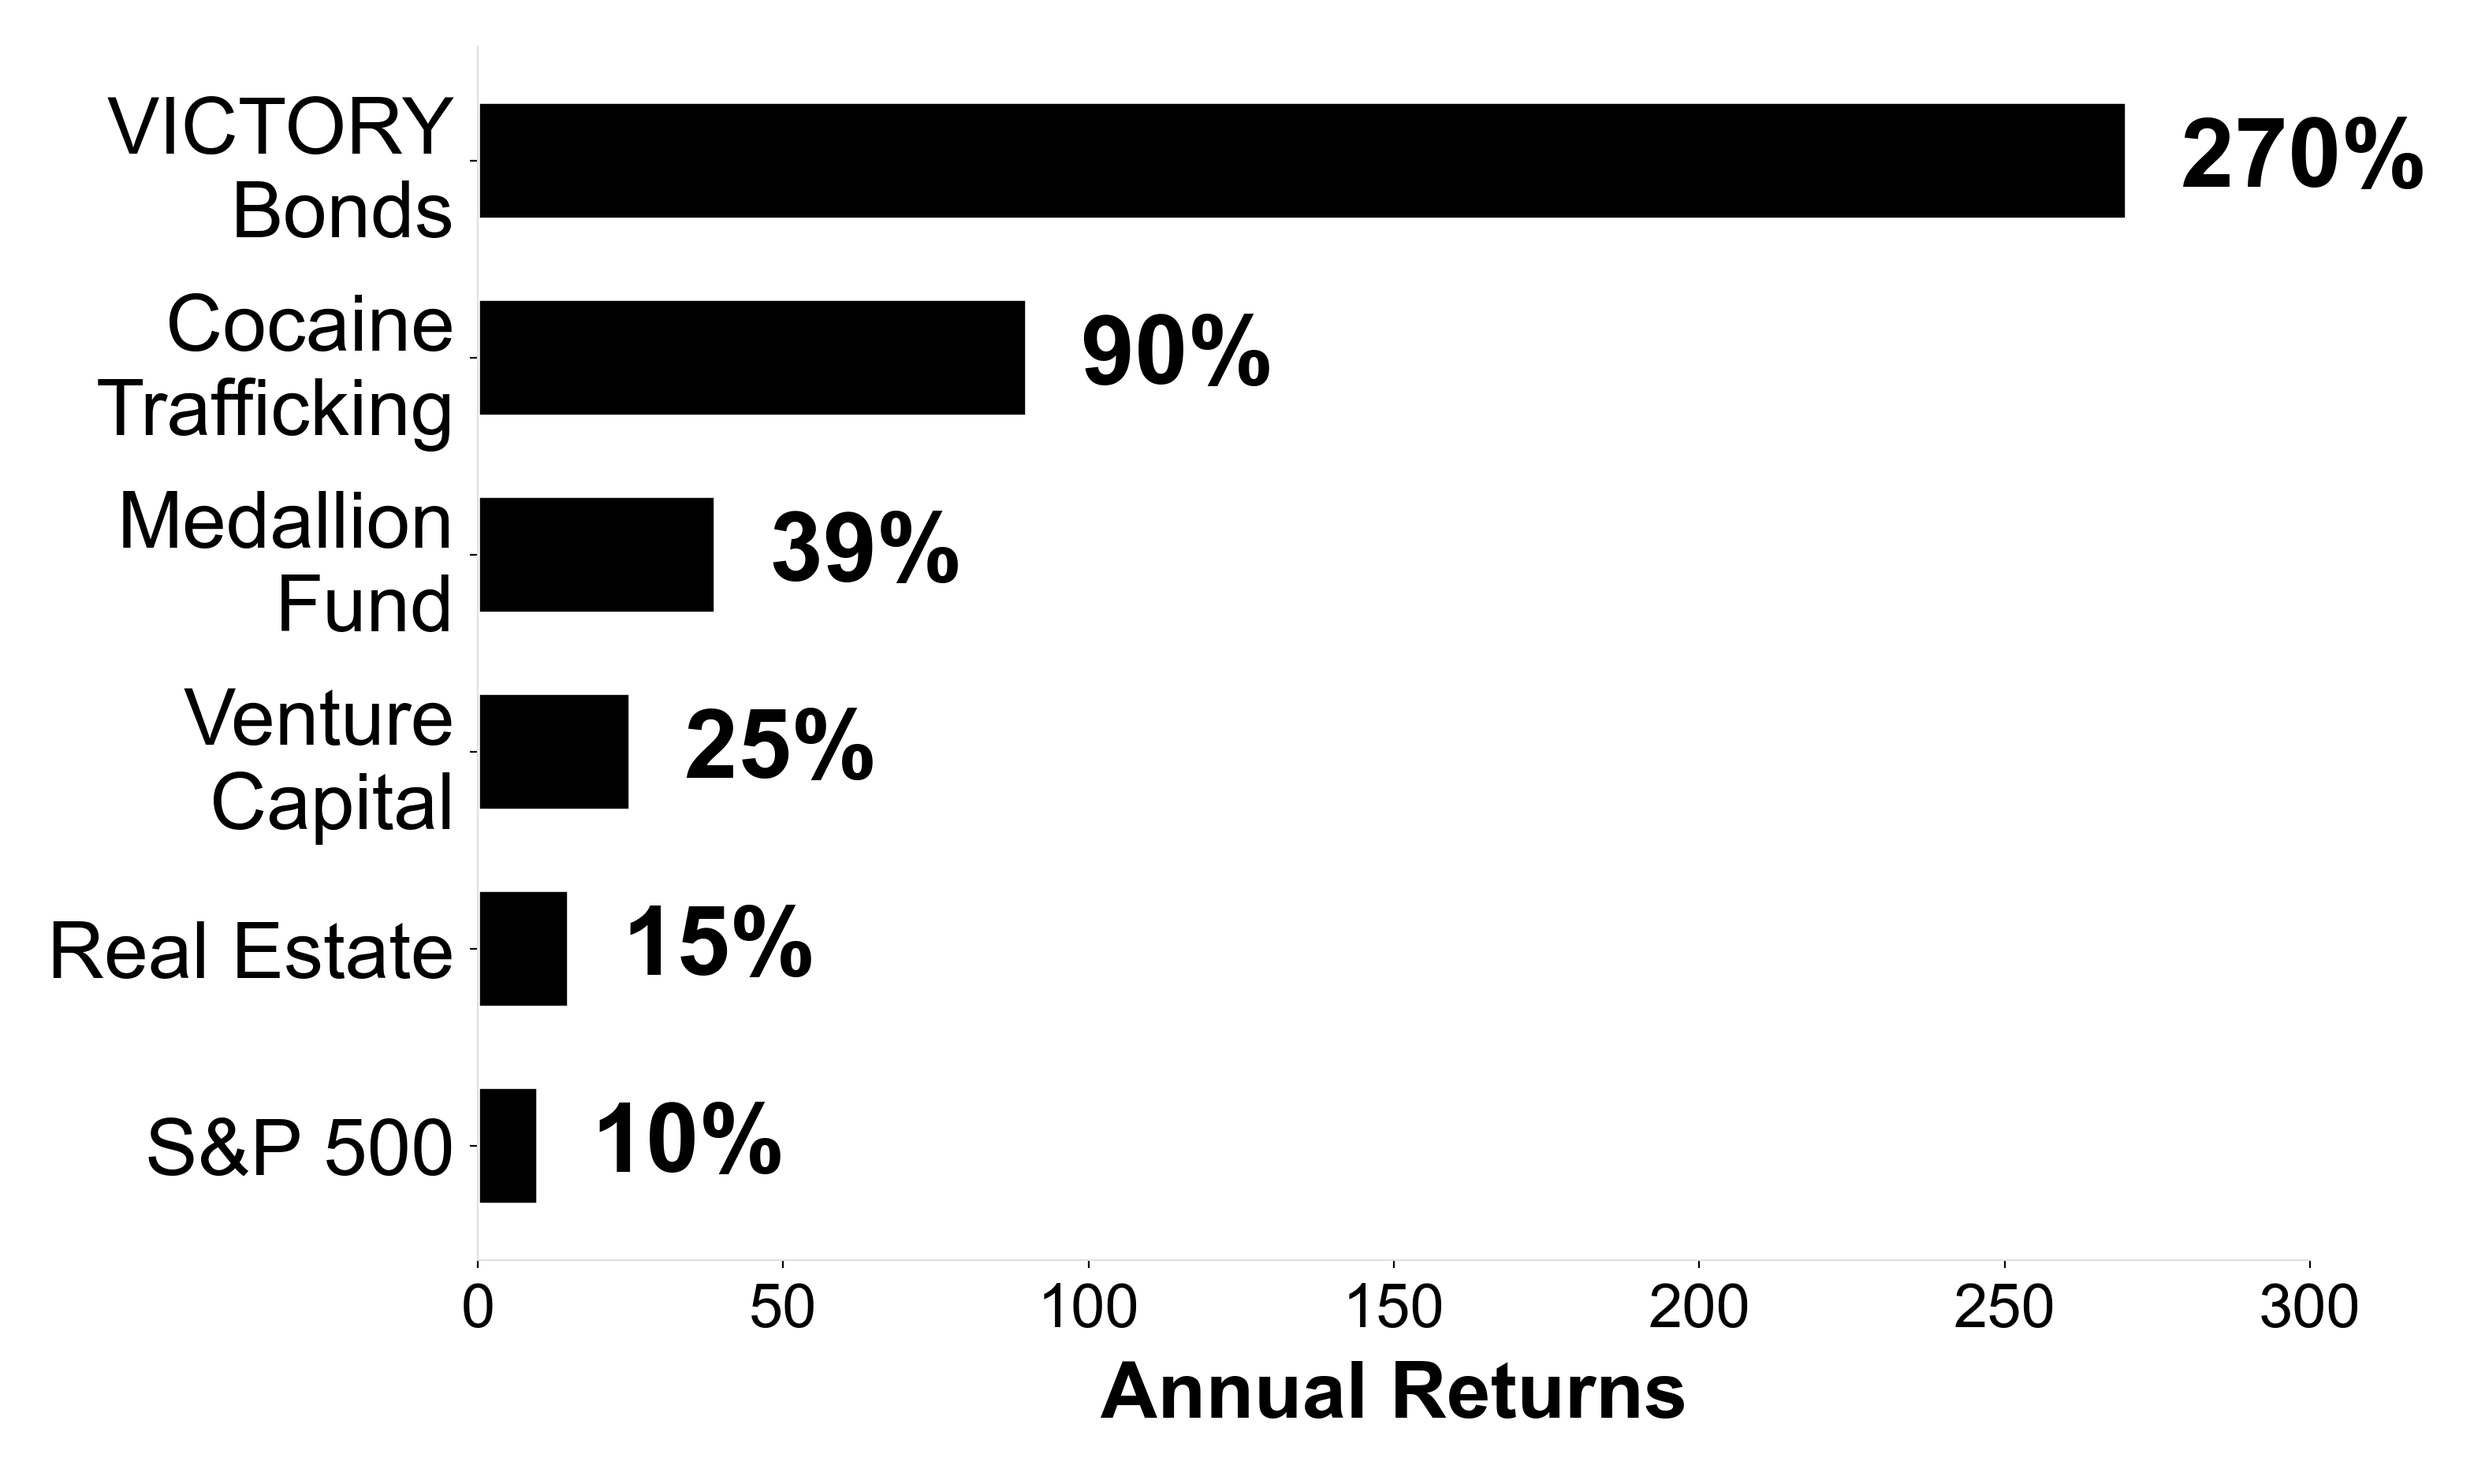
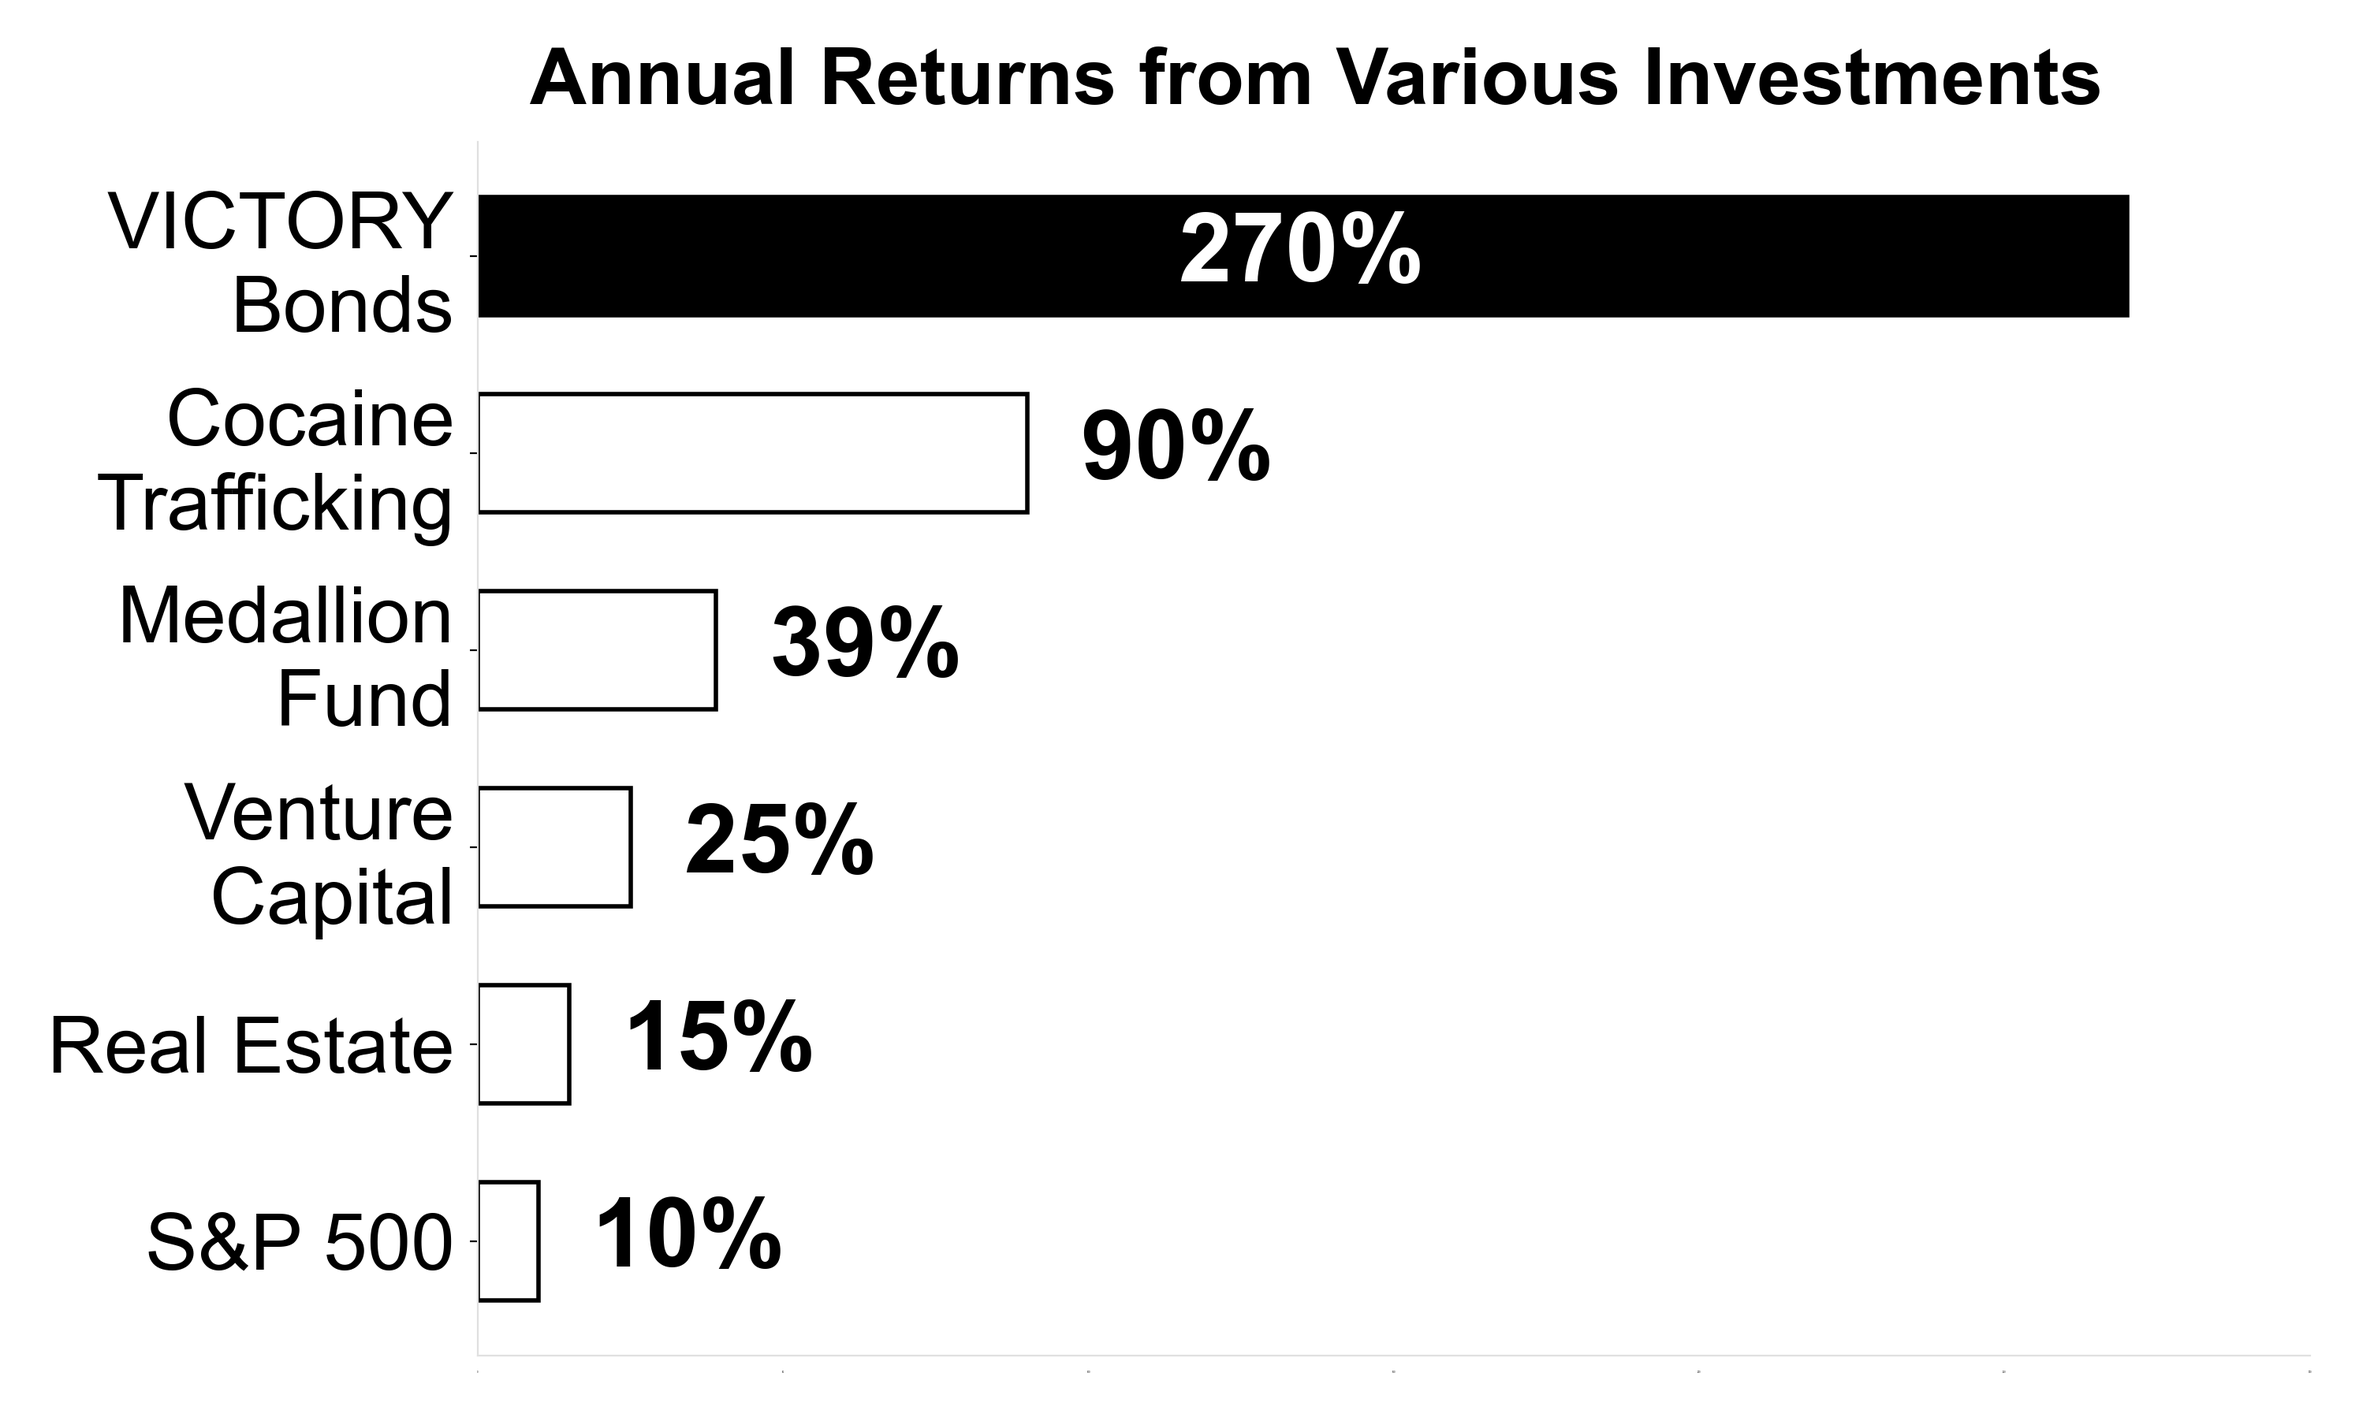
Update DESIGN_GUIDE.md with expanded typography guidelines for desktop, presentation, and mobile charts, emphasizing font size hierarchy and readability. Modify chart creation in victory-bonds-roi-projection-bar-chart.qmd to enhance visual clarity with distinct color usage for emphasis and improved 

diff --git a/DESIGN_GUIDE.md b/DESIGN_GUIDE.md
@@ -158,22 +158,22 @@ plt.rcParams['font.weight'] = 'bold'
 
 **Font Size Guidelines:**
 
-**Desktop/Print:**
-- Chart titles: 16-18pt (bold)
-- Axis labels: 11-12pt
-- Data labels: 10-11pt
-- Watermark: 8-9pt
-- Presentation headlines: 48-72pt
-- Presentation body: 24-36pt
+All charts must be readable on mobile (320-428px width). **Make fonts BIG.**
 
-**Mobile Readability:**
+**Minimum Sizes:**
+- **Data value labels:** 36-44pt (BIGGEST - most important)
+- **Chart titles:** 28-36pt (second biggest)
+- **Y-axis labels:** 28-36pt (same as title)
+- **Watermark:** 11pt
 
-Charts must be readable on mobile devices.
+**The Rule:** Data Values > Title ≥ Axis Labels
 
-**Mobile Design Rules:**
-1. **Larger is better**
-2. **Prioritize legibility over elegance**
-3. **Use multi-line labels** - Better than small single-line text
+When in doubt, go bigger. Think propaganda posters, not academic papers.
+
+**Common Mistakes:**
+- ❌ 18pt title with 44pt data - title disappears
+- ❌ Fonts that look "fine" on desktop but illegible on mobile
+- ✅ 36pt+ for everything - instantly readable anywhere
 
 ## Chart Margins and Padding
 
@@ -196,7 +196,7 @@ These margins are automatically set by `setup_chart_style()` but can be adjusted
 ## Minimalist Chart Design Rules
 
 **What to Include:**
-- **Chart title** - Clear, concise title at the top (16-18pt bold) makes charts self-documenting
+- **Chart title** - Clear, concise, properly sized (28-36pt bold)
 - Data bars (white fill with black outline, use solid black for emphasis)
 - Y-axis with scale (ONLY when columns aren't all labeled with amounts)
 - Key data values (large, bold, impossible to miss)
@@ -219,12 +219,10 @@ These margins are automatically set by `setup_chart_style()` but can be adjusted
 - Essential for text over hatched/patterned areas (e.g., labels on diagonal stripe patterns)
 - Keep padding minimal (0.4) to avoid visual clutter
 
-**Typography Size (Neobrutalist approach):**
-- **Make text as large as reasonably possible** - Bold, commanding, impossible to miss
-- Bar labels: 44-72pt (depending on available space)
+**Typography Approach:**
+- **Make text as large as reasonably possible**
 - Numbers should dominate the visual hierarchy
 - If text feels too small, it probably is - go bigger
-- Think propaganda posters, not academic papers
 
 **Text Width and Clipping:**
 - **Test your text fits** - Long text on bars gets clipped at edges
